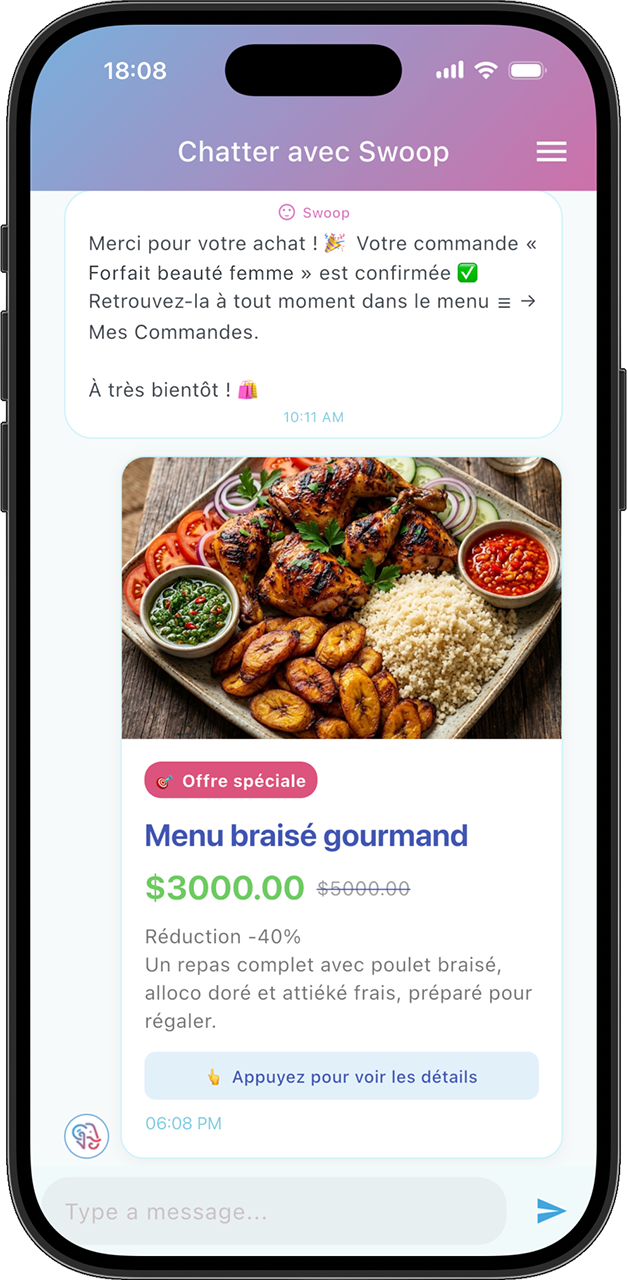
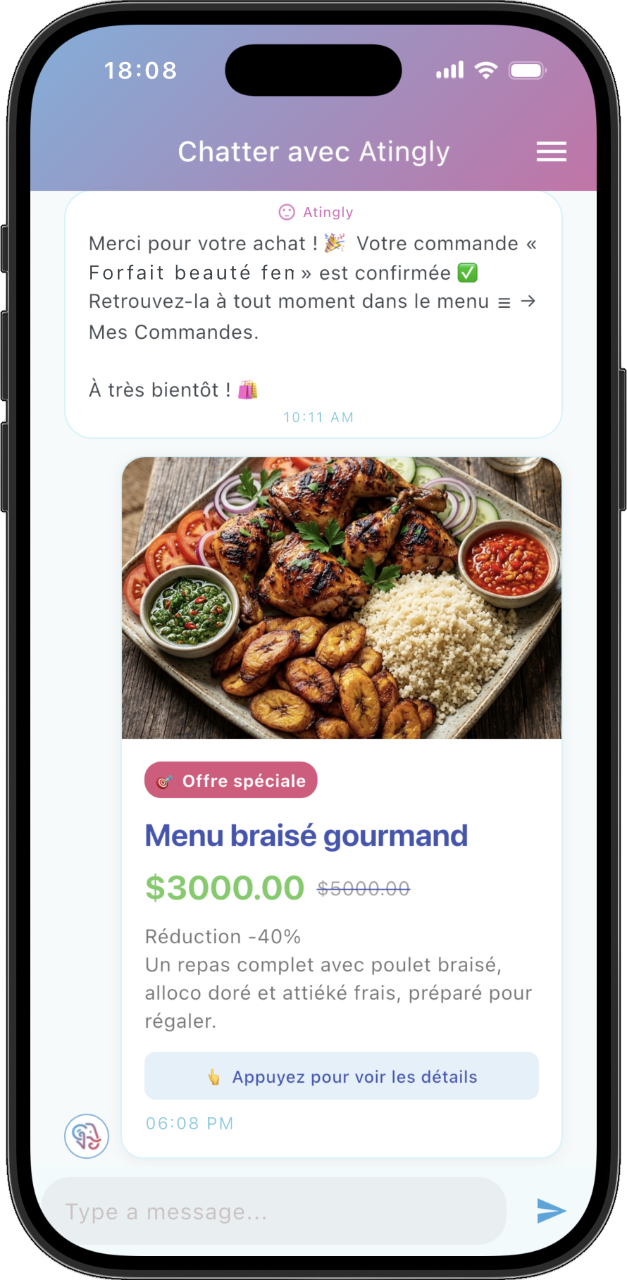
Rebrand Swoop to Atingly, update emails and hero image
- Replace all "Swoop" references with "Atingly" across components, data, and translations
- Update contact email to hello@atingly.com, partner email to partners@atingly.com
- Update hero-phone.png with new app screenshot

diff --git a/src/i18n/translations.ts b/src/i18n/translations.ts
@@ -10,8 +10,8 @@ export const defaultLang: Lang = 'fr';
 export const translations = {
   fr: {
     // Layout / Meta
-    'meta.title': 'Swoop — Vos meilleures offres par chat | Abidjan',
-    'meta.description': "Swoop vous connecte aux meilleures reductions d'Abidjan. Recevez des promotions exclusives directement dans le chat. Disponible sur iOS et Android.",
+    'meta.title': 'Atingly — Vos meilleures offres par chat | Abidjan',
+    'meta.description': "Atingly vous connecte aux meilleures reductions d'Abidjan. Recevez des promotions exclusives directement dans le chat. Disponible sur iOS et Android.",
     'meta.locale': 'fr_CI',
 
     // Navbar
@@ -28,7 +28,7 @@ export const translations = {
     'hero.headline2': ' offres livrees',
     'hero.headline3': 'directement',
     'hero.headline4': ' par chat',
-    'hero.subtitle': "Swoop vous connecte aux meilleures reductions d'Abidjan. Recevez des promotions exclusives directement dans le chat.",
+    'hero.subtitle': "Atingly vous connecte aux meilleures reductions d'Abidjan. Recevez des promotions exclusives directement dans le chat.",
     'hero.cta': "Telecharger l'app",
     'hero.avatarText': "Rejoignez 200+ sur la liste d'attente",
     'hero.online': 'En ligne',
@@ -47,17 +47,17 @@ export const translations = {
 
     // Features Section
     'features.heading': 'Pourquoi choisir ',
-    'features.subtitle': "Decouvrez comment Swoop transforme votre facon de faire des economies a Abidjan.",
+    'features.subtitle': "Decouvrez comment Atingly transforme votre facon de faire des economies a Abidjan.",
     'features.badge': 'Fonctionnalite',
     'features.main.0.title': 'Offres livrees par chat',
     'features.main.0.description': "Recevez les meilleures promotions directement dans le chat. Plus besoin de chercher — les offres viennent a vous, au bon moment.",
     'features.main.1.title': 'Reductions personnalisees',
     'features.main.1.description': "Notre algorithme apprend vos preferences pour vous envoyer uniquement les offres qui comptent. Des reductions sur mesure, rien que pour vous.",
     'features.main.2.title': 'Commerce local, impact reel',
-    'features.main.2.description': "Soutenez les commerces d'Abidjan tout en economisant. Chaque achat via Swoop renforce l'economie locale et votre portefeuille.",
+    'features.main.2.description': "Soutenez les commerces d'Abidjan tout en economisant. Chaque achat via Atingly renforce l'economie locale et votre portefeuille.",
 
     // Feature Section phone screens
-    'screen.chat.title': 'Swoop Chat',
+    'screen.chat.title': 'Atingly Chat',
     'screen.chat.subtitle': '3 nouvelles offres',
     'screen.chat.offer1.title': 'Nouvelle offre pour vous !',
     'screen.chat.offer1.desc': 'Restaurant Le Gourmet — 25% de reduction',
@@ -92,7 +92,7 @@ export const translations = {
     'how.heading2': 'marche',
     'how.subtitle': 'Commencez a economiser en trois etapes simples.',
     'how.step1.title': 'Telechargez',
-    'how.step1.desc': "Installez l'application Swoop gratuitement depuis l'App Store ou Google Play.",
+    'how.step1.desc': "Installez l'application Atingly gratuitement depuis l'App Store ou Google Play.",
     'how.step2.title': 'Recevez',
     'how.step2.desc': 'Des offres personnalisees arrivent directement dans votre chat. Pas de spam, que du bon.',
     'how.step3.title': 'Economisez',
@@ -101,32 +101,32 @@ export const translations = {
     // Testimonials
     'testimonials.heading': 'Ce que disent nos ',
     'testimonials.headingHighlight': 'premiers testeurs',
-    'testimonials.subtitle': "Decouvrez pourquoi nos premiers testeurs font confiance a Swoop.",
-    'testimonials.0.quote': "La semaine derniere, j'ai eu 20% de reduction dans mon restaurant prefere grace a Swoop. C'est devenu une partie de ma routine quotidienne a Abidjan.",
+    'testimonials.subtitle': "Decouvrez pourquoi nos premiers testeurs font confiance a Atingly.",
+    'testimonials.0.quote': "La semaine derniere, j'ai eu 20% de reduction dans mon restaurant prefere grace a Atingly. C'est devenu une partie de ma routine quotidienne a Abidjan.",
     'testimonials.1.quote': "Je decouvre des commerces pres de chez moi que je ne connaissais pas. Les reductions sont reelles et les commercants sont fiables.",
-    'testimonials.2.quote': "L'application est simple et rapide. J'ai recommande Swoop a toute ma famille. On economise ensemble maintenant !",
+    'testimonials.2.quote': "L'application est simple et rapide. J'ai recommande Atingly a toute ma famille. On economise ensemble maintenant !",
 
     // FAQ
     'faq.heading': 'Questions ',
     'faq.headingHighlight': 'frequentes',
-    'faq.subtitle': 'Tout ce que vous devez savoir sur Swoop.',
-    'faq.0.question': 'Comment fonctionne Swoop ?',
-    'faq.0.answer': "Swoop vous envoie des offres et reductions exclusives directement par chat. Telechargez l'application, creez votre profil, et commencez a recevoir des promotions personnalisees de commerces locaux a Abidjan.",
-    'faq.1.question': 'Est-ce que Swoop est gratuit ?',
-    'faq.1.answer': "Oui, Swoop est 100% gratuit pour les utilisateurs. Aucun frais cache, aucun abonnement. Vous ne payez que le prix reduit de vos achats chez nos partenaires.",
+    'faq.subtitle': 'Tout ce que vous devez savoir sur Atingly.',
+    'faq.0.question': 'Comment fonctionne Atingly ?',
+    'faq.0.answer': "Atingly vous envoie des offres et reductions exclusives directement par chat. Telechargez l'application, creez votre profil, et commencez a recevoir des promotions personnalisees de commerces locaux a Abidjan.",
+    'faq.1.question': 'Est-ce que Atingly est gratuit ?',
+    'faq.1.answer': "Oui, Atingly est 100% gratuit pour les utilisateurs. Aucun frais cache, aucun abonnement. Vous ne payez que le prix reduit de vos achats chez nos partenaires.",
     'faq.2.question': "Quels types d'offres puis-je trouver ?",
     'faq.2.answer': "Vous trouverez des reductions sur la restauration, la mode, les services de beaute, l'electronique, les produits et formations numeriques, les voyages et bien plus encore. Nos partenaires couvrent une large gamme de commerces a Abidjan.",
     'faq.3.question': 'Comment les offres sont-elles personnalisees ?',
-    'faq.3.answer': "Notre algorithme apprend vos preferences au fil du temps en fonction de vos interactions. Plus vous utilisez Swoop, plus les offres deviennent pertinentes et adaptees a vos gouts.",
-    'faq.4.question': "Swoop est-il disponible en dehors d'Abidjan ?",
-    'faq.4.answer': "Pour le moment, Swoop est disponible uniquement a Abidjan, Cote d'Ivoire. Nous prevoyons de nous etendre a d'autres villes prochainement. Restez connecte pour les mises a jour !",
-    'faq.5.question': 'Comment devenir un partenaire Swoop ?',
-    'faq.5.answer': "Si vous etes un commercant a Abidjan et souhaitez rejoindre notre reseau de partenaires, contactez-nous a partenaires@swoop.ci. Nous vous aiderons a toucher de nouveaux clients grace a notre plateforme.",
+    'faq.3.answer': "Notre algorithme apprend vos preferences au fil du temps en fonction de vos interactions. Plus vous utilisez Atingly, plus les offres deviennent pertinentes et adaptees a vos gouts.",
+    'faq.4.question': "Atingly est-il disponible en dehors d'Abidjan ?",
+    'faq.4.answer': "Pour le moment, Atingly est disponible uniquement a Abidjan, Cote d'Ivoire. Nous prevoyons de nous etendre a d'autres villes prochainement. Restez connecte pour les mises a jour !",
+    'faq.5.question': 'Comment devenir un partenaire Atingly ?',
+    'faq.5.answer': "Si vous etes un commercant a Abidjan et souhaitez rejoindre notre reseau de partenaires, contactez-nous a partners@atingly.com. Nous vous aiderons a toucher de nouveaux clients grace a notre plateforme.",
 
     // Final CTA
     'cta.heading1': 'Pret a',
     'cta.heading2': 'economiser',
-    'cta.subtitle': "Soyez parmi les premiers a Abidjan a economiser chaque jour avec Swoop.",
+    'cta.subtitle': "Soyez parmi les premiers a Abidjan a economiser chaque jour avec Atingly.",
     'cta.appStore': 'Telecharger sur',
     'cta.googlePlay': 'Disponible sur',
 
@@ -135,7 +135,7 @@ export const translations = {
     'footer.quickLinks': 'Liens rapides',
     'footer.contact': 'Contact',
     'footer.location': "Abidjan, Cote d'Ivoire",
-    'footer.copyright': '© 2026 Swoop. Tous droits reserves.',
+    'footer.copyright': '© 2026 Atingly. Tous droits reserves.',
 
     // Categories (feature section phone)
     'cat.restaurants': '🍽 Restaurants',
@@ -145,8 +145,8 @@ export const translations = {
 
   en: {
     // Layout / Meta
-    'meta.title': 'Swoop — Your best deals delivered by chat | Abidjan',
-    'meta.description': "Swoop connects you to the best deals in Abidjan. Receive exclusive promotions directly in the chat. Available on iOS and Android.",
+    'meta.title': 'Atingly — Your best deals delivered by chat | Abidjan',
+    'meta.description': "Atingly connects you to the best deals in Abidjan. Receive exclusive promotions directly in the chat. Available on iOS and Android.",
     'meta.locale': 'en_US',
 
     // Navbar
@@ -163,7 +163,7 @@ export const translations = {
     'hero.headline2': ' deals delivered',
     'hero.headline3': 'directly',
     'hero.headline4': ' by chat',
-    'hero.subtitle': "Swoop connects you to the best deals in Abidjan. Receive exclusive promotions directly in the chat.",
+    'hero.subtitle': "Atingly connects you to the best deals in Abidjan. Receive exclusive promotions directly in the chat.",
     'hero.cta': 'Download the app',
     'hero.avatarText': 'Join 200+ on the waitlist',
     'hero.online': 'Online',
@@ -182,17 +182,17 @@ export const translations = {
 
     // Features Section
     'features.heading': 'Why choose ',
-    'features.subtitle': "Discover how Swoop transforms the way you save money in Abidjan.",
+    'features.subtitle': "Discover how Atingly transforms the way you save money in Abidjan.",
     'features.badge': 'Feature',
     'features.main.0.title': 'Deals delivered by chat',
     'features.main.0.description': "Receive the best promotions directly in your messenger. No need to search — deals come to you, at the right time.",
     'features.main.1.title': 'Personalized discounts',
     'features.main.1.description': "Our algorithm learns your preferences to send you only the deals that matter. Tailored discounts, just for you.",
     'features.main.2.title': 'Local business, real impact',
-    'features.main.2.description': "Support Abidjan businesses while saving money. Every purchase through Swoop strengthens the local economy and your wallet.",
+    'features.main.2.description': "Support Abidjan businesses while saving money. Every purchase through Atingly strengthens the local economy and your wallet.",
 
     // Feature Section phone screens
-    'screen.chat.title': 'Swoop Chat',
+    'screen.chat.title': 'Atingly Chat',
     'screen.chat.subtitle': '3 new offers',
     'screen.chat.offer1.title': 'New offer for you!',
     'screen.chat.offer1.desc': 'Restaurant Le Gourmet — 25% off',
@@ -227,7 +227,7 @@ export const translations = {
     'how.heading2': 'works',
     'how.subtitle': 'Start saving in three simple steps.',
     'how.step1.title': 'Download',
-    'how.step1.desc': 'Install the Swoop app for free from the App Store or Google Play.',
+    'how.step1.desc': 'Install the Atingly app for free from the App Store or Google Play.',
     'how.step2.title': 'Receive',
     'how.step2.desc': 'Personalized offers arrive directly in your chat. No spam, only great deals.',
     'how.step3.title': 'Save',
@@ -236,32 +236,32 @@ export const translations = {
     // Testimonials
     'testimonials.heading': 'What our ',
     'testimonials.headingHighlight': 'early testers say',
-    'testimonials.subtitle': "Discover why our early testers trust Swoop.",
-    'testimonials.0.quote': "I got 20% off at my favorite restaurant last week just by using Swoop. It's become part of my daily routine in Abidjan.",
+    'testimonials.subtitle': "Discover why our early testers trust Atingly.",
+    'testimonials.0.quote': "I got 20% off at my favorite restaurant last week just by using Atingly. It's become part of my daily routine in Abidjan.",
     'testimonials.1.quote': "I discover shops near me that I didn't know about. The discounts are real and the merchants are reliable.",
-    'testimonials.2.quote': "The app is simple and fast. I recommended Swoop to my whole family. We save together now!",
+    'testimonials.2.quote': "The app is simple and fast. I recommended Atingly to my whole family. We save together now!",
 
     // FAQ
     'faq.heading': 'Frequently asked ',
     'faq.headingHighlight': 'questions',
-    'faq.subtitle': 'Everything you need to know about Swoop.',
-    'faq.0.question': 'How does Swoop work?',
-    'faq.0.answer': "Swoop sends you exclusive offers and discounts directly by chat. Download the app, create your profile, and start receiving personalized promotions from local businesses in Abidjan.",
-    'faq.1.question': 'Is Swoop free?',
-    'faq.1.answer': "Yes, Swoop is 100% free for users. No hidden fees, no subscriptions. You only pay the discounted price of your purchases at our partner stores.",
+    'faq.subtitle': 'Everything you need to know about Atingly.',
+    'faq.0.question': 'How does Atingly work?',
+    'faq.0.answer': "Atingly sends you exclusive offers and discounts directly by chat. Download the app, create your profile, and start receiving personalized promotions from local businesses in Abidjan.",
+    'faq.1.question': 'Is Atingly free?',
+    'faq.1.answer': "Yes, Atingly is 100% free for users. No hidden fees, no subscriptions. You only pay the discounted price of your purchases at our partner stores.",
     'faq.2.question': 'What types of offers can I find?',
     'faq.2.answer': "You'll find discounts on dining, fashion, beauty services, electronics, digital products & courses, travel and much more. Our partners cover a wide range of businesses in Abidjan.",
     'faq.3.question': 'How are the offers personalized?',
-    'faq.3.answer': "Our algorithm learns your preferences over time based on your interactions. The more you use Swoop, the more relevant and tailored the offers become.",
-    'faq.4.question': 'Is Swoop available outside Abidjan?',
-    'faq.4.answer': "Currently, Swoop is only available in Abidjan, Ivory Coast. We plan to expand to other cities soon. Stay connected for updates!",
-    'faq.5.question': 'How do I become a Swoop partner?',
-    'faq.5.answer': "If you're a merchant in Abidjan and want to join our partner network, contact us at partenaires@swoop.ci. We'll help you reach new customers through our platform.",
+    'faq.3.answer': "Our algorithm learns your preferences over time based on your interactions. The more you use Atingly, the more relevant and tailored the offers become.",
+    'faq.4.question': 'Is Atingly available outside Abidjan?',
+    'faq.4.answer': "Currently, Atingly is only available in Abidjan, Ivory Coast. We plan to expand to other cities soon. Stay connected for updates!",
+    'faq.5.question': 'How do I become a Atingly partner?',
+    'faq.5.answer': "If you're a merchant in Abidjan and want to join our partner network, contact us at partners@atingly.com. We'll help you reach new customers through our platform.",
 
     // Final CTA
     'cta.heading1': 'Ready to',
     'cta.heading2': 'save',
-    'cta.subtitle': "Be among the first in Abidjan to save every day with Swoop.",
+    'cta.subtitle': "Be among the first in Abidjan to save every day with Atingly.",
     'cta.appStore': 'Download on',
     'cta.googlePlay': 'Available on',
 
@@ -270,7 +270,7 @@ export const translations = {
     'footer.quickLinks': 'Quick links',
     'footer.contact': 'Contact',
     'footer.location': "Abidjan, Ivory Coast",
-    'footer.copyright': '© 2026 Swoop. All rights reserved.',
+    'footer.copyright': '© 2026 Atingly. All rights reserved.',
 
     // Categories (feature section phone)
     'cat.restaurants': '🍽 Restaurants',

diff --git a/src/data/faq.ts b/src/data/faq.ts
@@ -1,11 +1,11 @@
 export const faqItems = [
   {
-    question: "Comment fonctionne Swoop ?",
-    answer: "Swoop vous envoie des offres et réductions exclusives directement par chat. Téléchargez l'application, créez votre profil, et commencez à recevoir des promotions personnalisées de commerces locaux à Abidjan.",
+    question: "Comment fonctionne Atingly ?",
+    answer: "Atingly vous envoie des offres et réductions exclusives directement par chat. Téléchargez l'application, créez votre profil, et commencez à recevoir des promotions personnalisées de commerces locaux à Abidjan.",
   },
   {
-    question: "Est-ce que Swoop est gratuit ?",
-    answer: "Oui, Swoop est 100% gratuit pour les utilisateurs. Aucun frais caché, aucun abonnement. Vous ne payez que le prix réduit de vos achats chez nos partenaires.",
+    question: "Est-ce que Atingly est gratuit ?",
+    answer: "Oui, Atingly est 100% gratuit pour les utilisateurs. Aucun frais caché, aucun abonnement. Vous ne payez que le prix réduit de vos achats chez nos partenaires.",
   },
   {
     question: "Quels types d'offres puis-je trouver ?",
@@ -13,14 +13,14 @@ export const faqItems = [
   },
   {
     question: "Comment les offres sont-elles personnalisées ?",
-    answer: "Notre algorithme apprend vos préférences au fil du temps en fonction de vos interactions. Plus vous utilisez Swoop, plus les offres deviennent pertinentes et adaptées à vos goûts.",
+    answer: "Notre algorithme apprend vos préférences au fil du temps en fonction de vos interactions. Plus vous utilisez Atingly, plus les offres deviennent pertinentes et adaptées à vos goûts.",
   },
   {
-    question: "Swoop est-il disponible en dehors d'Abidjan ?",
-    answer: "Pour le moment, Swoop est disponible uniquement à Abidjan, Côte d'Ivoire. Nous prévoyons de nous étendre à d'autres villes prochainement. Restez connecté pour les mises à jour !",
+    question: "Atingly est-il disponible en dehors d'Abidjan ?",
+    answer: "Pour le moment, Atingly est disponible uniquement à Abidjan, Côte d'Ivoire. Nous prévoyons de nous étendre à d'autres villes prochainement. Restez connecté pour les mises à jour !",
   },
   {
-    question: "Comment devenir un partenaire Swoop ?",
-    answer: "Si vous êtes un commerçant à Abidjan et souhaitez rejoindre notre réseau de partenaires, contactez-nous à partenaires@swoop.ci. Nous vous aiderons à toucher de nouveaux clients grâce à notre plateforme.",
+    question: "Comment devenir un partenaire Atingly ?",
+    answer: "Si vous êtes un commerçant à Abidjan et souhaitez rejoindre notre réseau de partenaires, contactez-nous à partners@atingly.com. Nous vous aiderons à toucher de nouveaux clients grâce à notre plateforme.",
   },
 ];

diff --git a/src/data/testimonials.ts b/src/data/testimonials.ts
@@ -1,6 +1,6 @@
 export const testimonials = [
   {
-    quote: "Grâce à Swoop, j'économise chaque semaine sur mes courses. Les offres arrivent directement sur mon téléphone, c'est vraiment pratique !",
+    quote: "Grâce à Atingly, j'économise chaque semaine sur mes courses. Les offres arrivent directement sur mon téléphone, c'est vraiment pratique !",
     author: "Aminata K.",
     location: "Cocody, Abidjan",
   },
@@ -10,7 +10,7 @@ export const testimonials = [
     location: "Plateau, Abidjan",
   },
   {
-    quote: "L'application est simple et rapide. J'ai recommandé Swoop à toute ma famille. On économise ensemble maintenant !",
+    quote: "L'application est simple et rapide. J'ai recommandé Atingly à toute ma famille. On économise ensemble maintenant !",
     author: "Fatou D.",
     location: "Yopougon, Abidjan",
   },

diff --git a/src/data/features.ts b/src/data/features.ts
@@ -11,7 +11,7 @@ export const mainFeatures = [
   },
   {
     title: "Commerce local, impact réel",
-    description: "Soutenez les commerces d'Abidjan tout en économisant. Chaque achat via Swoop renforce l'économie locale et votre portefeuille.",
+    description: "Soutenez les commerces d'Abidjan tout en économisant. Chaque achat via Atingly renforce l'économie locale et votre portefeuille.",
     color: "accent" as const,
   },
 ];
